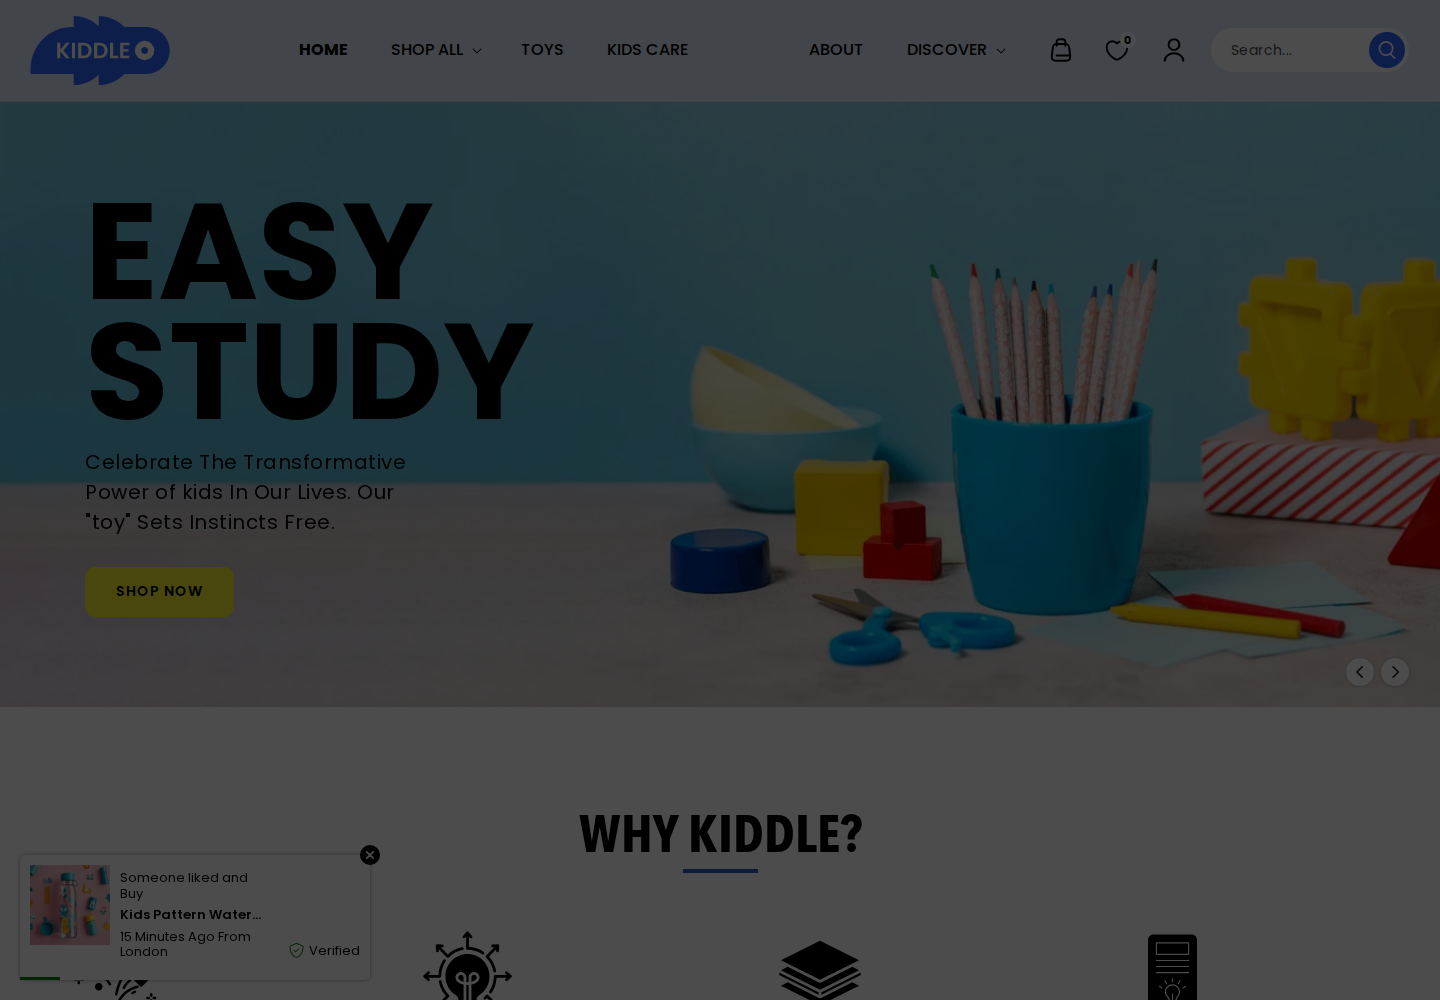
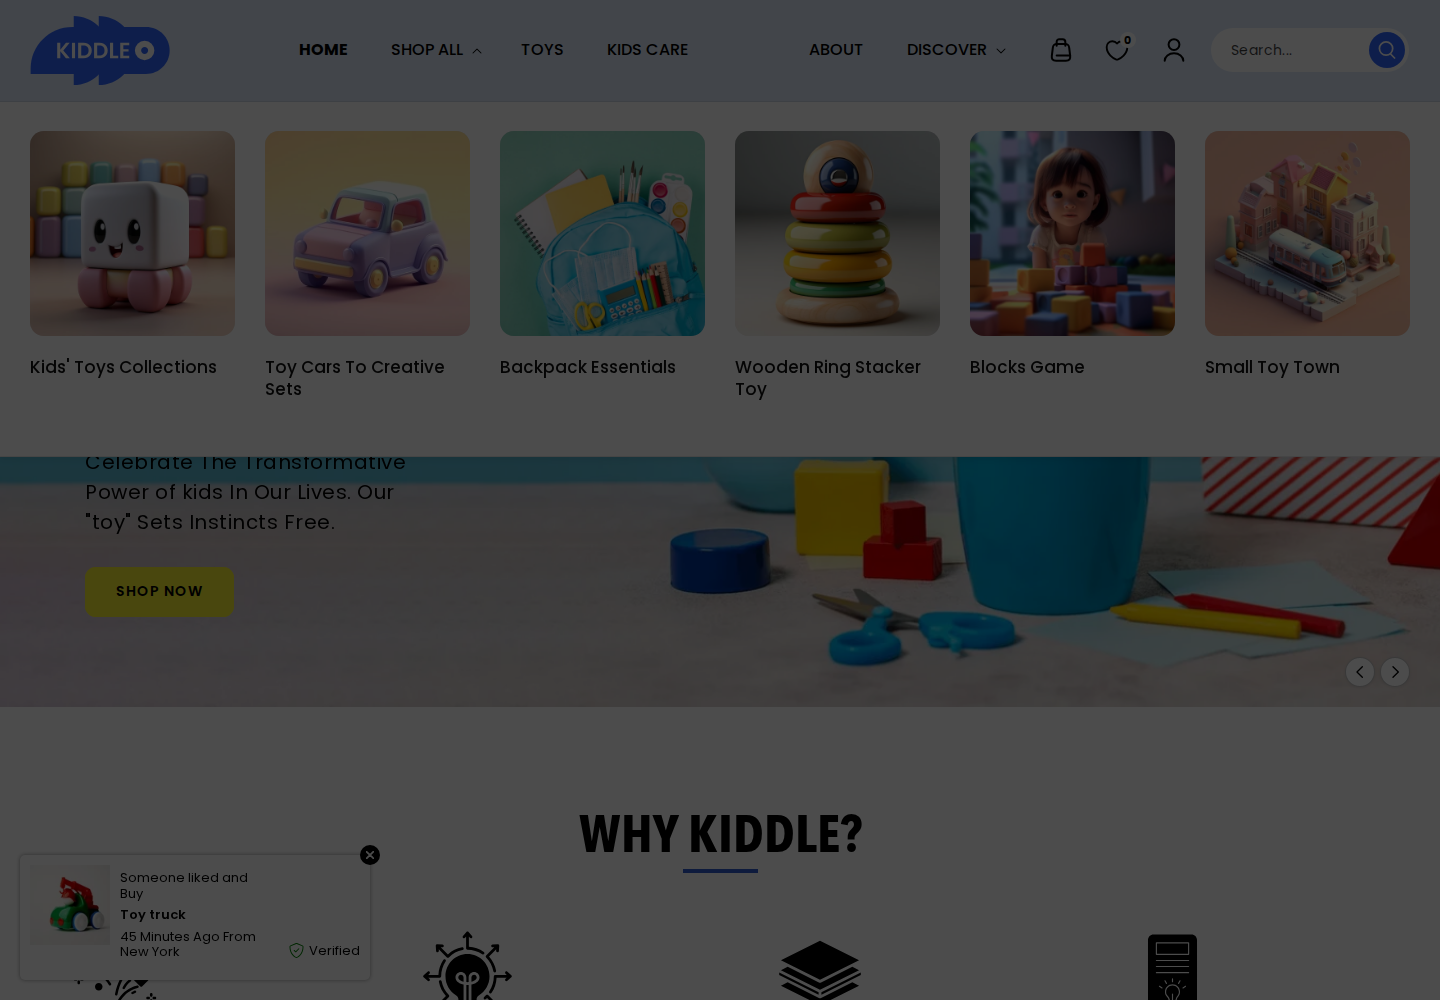
Record Kiddle interact findings and overlay retries
Shop All mega and rainbow search now show real pixels. Cart, PDP Color Red, and FAQ accordion findings written. Menu drawer, PLAY tab, and quick shop stay missingStates after a second failed attempt. No section schemas edited.

Changed region(s): [[0.0, 0.093, 1.0, 0.465], [0.0, 0.868, 0.1562, 0.961]]

diff --git a/todo/kiddle.md b/todo/kiddle.md
@@ -13,7 +13,7 @@
 `Shopify.shop` = `toyon-toys-3.myshopify.com` · locale `en` · country `US` · currency `USD`  
 Storefront password (ürün sayfasında yayınlı): **`1`** — aynı host, başka demo uydurulmadı.
 
-**Durum:** 🟡 Mod A observation yazıldı · 3vp capture + interact sırada  
+**Durum:** ✅ Mod A + interact — 43 obs · ~161 PNG · 0 yeni şema  
 **PR:** draft · **main'e merge yok**
 
 ---
@@ -37,22 +37,22 @@ Storefront password (ürün sayfasında yayınlı): **`1`** — aynı host, baş
 
 | Şablon | Durum | 3vp |
 |---|---|---|
-| Home roster (header→footer) | [x] obs | [ ] capture |
-| Header Shop All / Discover 1440 | [x] obs | [ ] interact |
-| Predictive search host | [x] obs | [ ] interact |
-| Mobile menu drawer 375/768 | [x] obs | [ ] interact |
-| Cart drawer empty | [x] obs | [ ] + filled/changed |
-| Quick shop modal | [x] obs | [ ] open |
-| PDP `/products/128pcs-big-coloring-trunk-1` | [x] obs | [ ] Size/Color |
-| PLP `/collections/all` | [x] obs | [ ] |
-| Collections index `/collections` | [x] obs | [ ] |
-| Search `/search?q=toy` | [x] obs | [ ] |
-| Cart `/cart` empty | [x] obs | [ ] + filled/changed |
-| About `/pages/about-us` | [x] obs | [ ] |
-| Contact `/pages/contact` (submit yok) | [x] obs | [ ] |
-| FAQ `/pages/faqs` | [x] obs | [ ] accordion |
-| Blog list `/blogs/news` + article | [x] obs | [ ] |
-| 404 | [x] obs | [ ] |
+| Home roster (header→footer) | [x] obs | [x] capture |
+| Header Shop All / Discover 1440 | [x] obs | [x] Shop All mega |
+| Predictive search host | [x] obs | [x] rainbow input |
+| Mobile menu drawer 375/768 | [x] obs | [x] missingStates |
+| Cart drawer empty | [x] obs | [x] filled + changed |
+| Quick shop modal | [x] obs | [x] missingStates |
+| PDP `/products/128pcs-big-coloring-trunk-1` | [x] obs | [x] Color Red |
+| PLP `/collections/all` | [x] obs | [x] |
+| Collections index `/collections` | [x] obs | [x] |
+| Search `/search?q=toy` | [x] obs | [x] |
+| Cart `/cart` empty | [x] obs | [x] filled + changed |
+| About `/pages/about-us` | [x] obs | [x] |
+| Contact `/pages/contact` (submit yok) | [x] obs | [x] |
+| FAQ `/pages/faqs` | [x] obs | [x] ilk soru |
+| Blog list `/blogs/news` + article | [x] obs | [x] |
+| 404 | [x] obs | [x] |
 | Email / account / checkout / newsletter submit | ⛔ PII | — |
 
 ---
@@ -61,14 +61,14 @@ Storefront password (ürün sayfasında yayınlı): **`1`** — aynı host, baş
 
 | # | Section id | QANTE schemaId | Karar |
 |---|---|---|---|
-| 1 | `__header` | `navigation-header-mega` | reuse · mega yok · disclosure |
-| 2 | `#menu-drawer` | `global-menu-drawer` | reuse · prepareClick hamburger |
-| 3 | `details-modal.header__search` | `global-predictive-search` | reuse · prepareClick Search |
-| 4 | `#CartDrawer` | `global-cart-drawer` | reuse · prepareClick `#cart-icon-bubble` |
-| 5 | `quick-add-modal` | `global-quick-view` | reuse · QUICK SHOP |
+| 1 | `__header` | `navigation-header-mega` | reuse · Shop All mega 1440 |
+| 2 | `#menu-drawer` | `global-menu-drawer` | reuse · open/changed missingStates |
+| 3 | `details-modal.header__search` | `global-predictive-search` | reuse · rainbow |
+| 4 | `#CartDrawer` | `global-cart-drawer` | reuse · $79 → $158 |
+| 5 | `quick-add-modal` | `global-quick-view` | reuse · open missingStates |
 | 6 | `__3b7cb796…` slideshow | `hero-slideshow` | reuse · EASY STUDY |
 | 7 | `__multicolumn_Fb6EtW` | `features-multicolumn` | reuse · WHY KIDDLE? |
-| 8 | `__homepage_product_tab_wd7ikC` | `product-showcase-tabs` | reuse · BEST SELLER/ESSENTIALS/PLAY/SALE OFF |
+| 8 | `__homepage_product_tab_wd7ikC` | `product-showcase-tabs` | reuse · PLAY missingStates |
 | 9 | `__section_sub_banner_CGUyed` | `promo-grid-banner` | reuse · 2 kolon |
 | 10 | `__image_with_text_list_UApkzV` | `editorial-image-with-text` | reuse · IGNITE THE JOY |
 | 11 | `__0617c2f2…` featured | `product-showcase-grid-featured` | reuse · FEATURE PRODUCT |
@@ -83,21 +83,21 @@ Storefront password (ürün sayfasında yayınlı): **`1`** — aynı host, baş
 
 ---
 
-## Interact (shopper-state) — sırada
+## Interact (shopper-state)
 
 | Bileşen | State | Sonuç |
 |---|---|---|
-| navigation-header-mega | open 1440 | [ ] Shop All / Discover |
-| global-predictive-search | input | [ ] katalogSorgu |
-| global-menu-drawer | open + changed 375/768 | [ ] hamburger + Discover |
-| global-cart-drawer | filled + changed | [ ] |
-| cart-page-main | filled + changed | [ ] |
-| product-info-main | changed | [ ] Size/Color |
-| product-showcase-tabs | changed | [ ] ESSENTIALS→PLAY |
-| faq-collapsible-tabs | changed | [ ] ilk soru |
-| global-quick-view | open | [ ] QUICK SHOP |
+| navigation-header-mega | open 1440 | [x] 6 koleksiyon karesi |
+| global-predictive-search | input | [x] rainbow · 2 ürün |
+| global-menu-drawer | open + changed 375/768 | [x] missingStates — menu-opening |
+| global-cart-drawer | filled + changed | [x] $79 → $158 · 1440 YOU MAY LIKE modal |
+| cart-page-main | filled + changed | [x] $79 → $158 |
+| product-info-main | changed | [x] Color Blue → Red · $79 aynı |
+| product-showcase-tabs | changed | [x] missingStates — PLAY tık ESSENTIALS |
+| faq-collapsible-tabs | changed | [x] ilk soru açık |
+| global-quick-view | open | [x] missingStates — modal[open] yok |
 
-Şema upgrade yok beklenir — boş↔dolu / açık↔kapalı / sekme / swatch.
+Şema upgrade yok — boş↔dolu / açık↔kapalı / swatch. Kanıtsız slot yok.
 
 ---
 
@@ -109,7 +109,7 @@ Storefront password (ürün sayfasında yayınlı): **`1`** — aynı host, baş
 
 ## Evidence backlog
 
-- [ ] Official 3vp static (`capture-observation.mjs`)
-- [ ] Interact mega / search / cart / menu / PDP swatch / tabs / FAQ / QV
-- [ ] PNG bak → stateFindings
-- [ ] `node scripts/validate-schemas.mjs` — şema dokunulmadı
+- [x] Official 3vp static (`capture-observation.mjs`)
+- [x] Interact mega / search / cart / PDP swatch / FAQ; menu / tabs / QV missingStates
+- [x] PNG bak → stateFindings
+- [x] `node scripts/validate-schemas.mjs` — şema dokunulmadı

diff --git a/candidates/kiddle-leftovers.md b/candidates/kiddle-leftovers.md
@@ -92,6 +92,38 @@ Karar: onay bekliyor
 
 ---
 
+ADAY: kiddle-atc-you-may-like
+Gerekçe: PDP ADD TO CART 1440’ta ortada **YOU MAY LIKE** modal (5 ürün + sarı ADD TO CART + oyuncak blokları footer) ile birlikte cart drawer açılıyor. 375 drawer içinde YOU MAY LIKE kapalı akordeon. Ayrı schema yok; cart-drawer filled karesinde görüldü.
+Örnekler: https://toyon-toys-3.myshopify.com/products/128pcs-big-coloring-trunk-1 ATC
+Öneri: leftover — upsell modal
+Karar: onay bekliyor
+
+---
+
+ADAY: kiddle-menu-drawer-menu-opening
+Gerekçe: Hamburger tık + forceOpen details/#menu-drawer 375/768 karede drawer göstermedi. Dawn `menu-opening` class olmadan #menu-drawer 375’te 0×w / visibility:hidden, 768’de ekran dışı. Probe’da class eklenince HOME…DISCOVER + WISHLIST 0 + COMPARE 0 görüldü; capture adımı o class’ı yazamaz. missingStates.
+Örnekler: home header-drawer
+Öneri: leftover — overlay açılmadı
+Karar: onay bekliyor
+
+---
+
+ADAY: kiddle-quick-shop-modal
+Gerekçe: QUICK SHOP tık `quick-add-modal[open]` üretmedi (3vp zero-size). forceOpen boş kabuk; show() ModalDialog içinde patlıyor. CardLink id çift. missingStates.
+Örnekler: home BEST SELLER Baby cartoon scooter
+Öneri: leftover — QV open yok
+Karar: onay bekliyor
+
+---
+
+ADAY: kiddle-product-tabs-play
+Gerekçe: PLAY tık (ul.tabs a[href='#tab-2']) iki denemede ESSENTIALS’ta kaldı. #tab-2 display:none, içerik ürün değil CSS. missingStates.
+Örnekler: home homepage_product_tab_wd7ikC
+Öneri: leftover — sekme değişmedi
+Karar: onay bekliyor
+
+---
+
 ADAY: kiddle-copy-pet-bleed  
 Gerekçe: Kids vitrinde pet/herding kopyası: CANINE COGNITION, GET HERDING, UNBOX YOUR HEALTHY FOOD, SNIFF AND SEEK, FAQ Doghouse, BELOVED COMPANIONS. Şema değil; demo içerik.  
 Örnekler: home WHY KIDDLE · PDP banners · about · FAQ  

diff --git a/todo/README.md b/todo/README.md
@@ -50,7 +50,7 @@
 | Furnix (Speedo / Decora) | [`furnix.md`](./furnix.md) | 🟡 Mod A + interact — `pandora-furniture-6` · password 1 · 41 obs · 173 PNG · 0 yeni şema |
 | Guccy (Speedo) | [`guccy.md`](./guccy.md) | ✅ first inventory — fashion-store-clean-20 · Guccy 1.5.0 · password 1 · 46 obs · 157 PNG · 0 yeni şema · hamburger leftover |
 | Hubble (Speedo) | [`hubble.md`](./hubble.md) | ✅ default — Hubble-nutrition 1.2.0 · 34 obs · 133 PNG · 0 yeni şema · password `1` |
-| Kiddle (Speedo) | [`kiddle.md`](./kiddle.md) | 🟡 first inventory — `toyon-toys-3` · Kiddle-v-1-5-0 · password `1` · 43 obs · 0 yeni şema |
+| Kiddle (Speedo) | [`kiddle.md`](./kiddle.md) | ✅ first inventory + interact — `toyon-toys-3` · Kiddle-v-1-5-0 · password `1` · 43 obs · ~161 PNG · 0 yeni şema · menu/QV/PLAY missingStates |
 | Luxora (Speedo) | [`luxora.md`](./luxora.md) | ✅ first inventory — 46 obs · 182 PNG · 0 yeni şema · Jewelry-online-shop2 V-1.5.0 · official password `1` · mega/cart alındı · menu/search/FAQ/tabs/PLP filter missingStates |
 | Nouk (Speedo) | [`nouk.md`](./nouk.md) | 🟡 first inventory — `jewelry-online-shop-3` · Nouk Jewellery 1.5.0 · password `1` (vendor) · 44 obs · ~185 PNG · 0 yeni şema |
 | Olelia (Speedo) | [`olelia.md`](./olelia.md) | ✅ first inventory — jewelry-online-shop-4 · password 1 · 46 obs · 0 yeni şema · interact |

diff --git a/todo/interact.md b/todo/interact.md
@@ -20,6 +20,7 @@ Aynı chrome’u preset’te tekrar çekme (Allure drawer = diğer Prestige). Ye
 | Impact Cocoon / Balance | shop-the-look hotspot (Vase→Plica · Bra→Leggings) · Balance PDP Sizing accordion |
 | Symmetry default | lookbook hotspot Heavy Rotation · customer-help FAQ size guide |
 | Sachue (Speedo) default | Shop disclosure 1440 · search `nail` · hamburger Shop drill · cart drawer+sayfa $26→$52 · PDP Multi Color · tabs NEW ARRIVALS · FAQ · announcement 768/1440 (375 next gizli) |
+| Kiddle (Speedo) default | Shop All mega 1440 · search `rainbow` · cart drawer+sayfa $79→$158 · PDP Color Red · FAQ ilk soru · hamburger/QV/PLAY missingStates |
 
 ---
 
